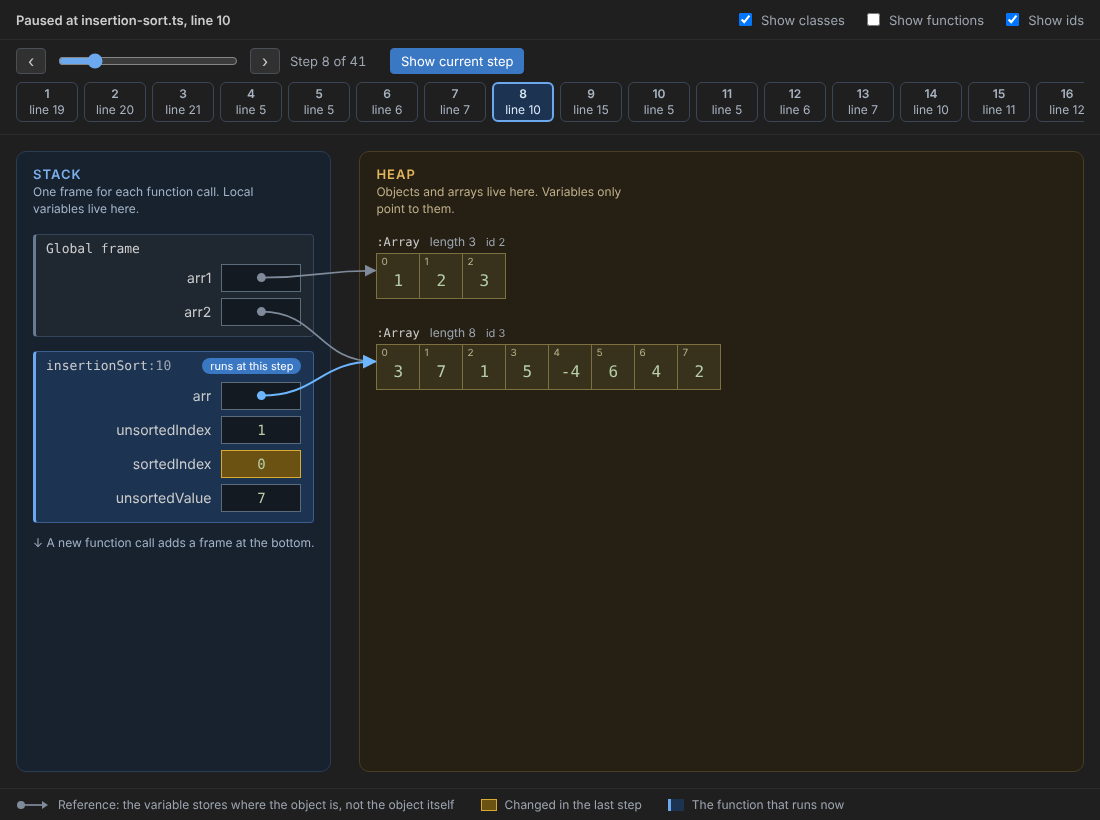
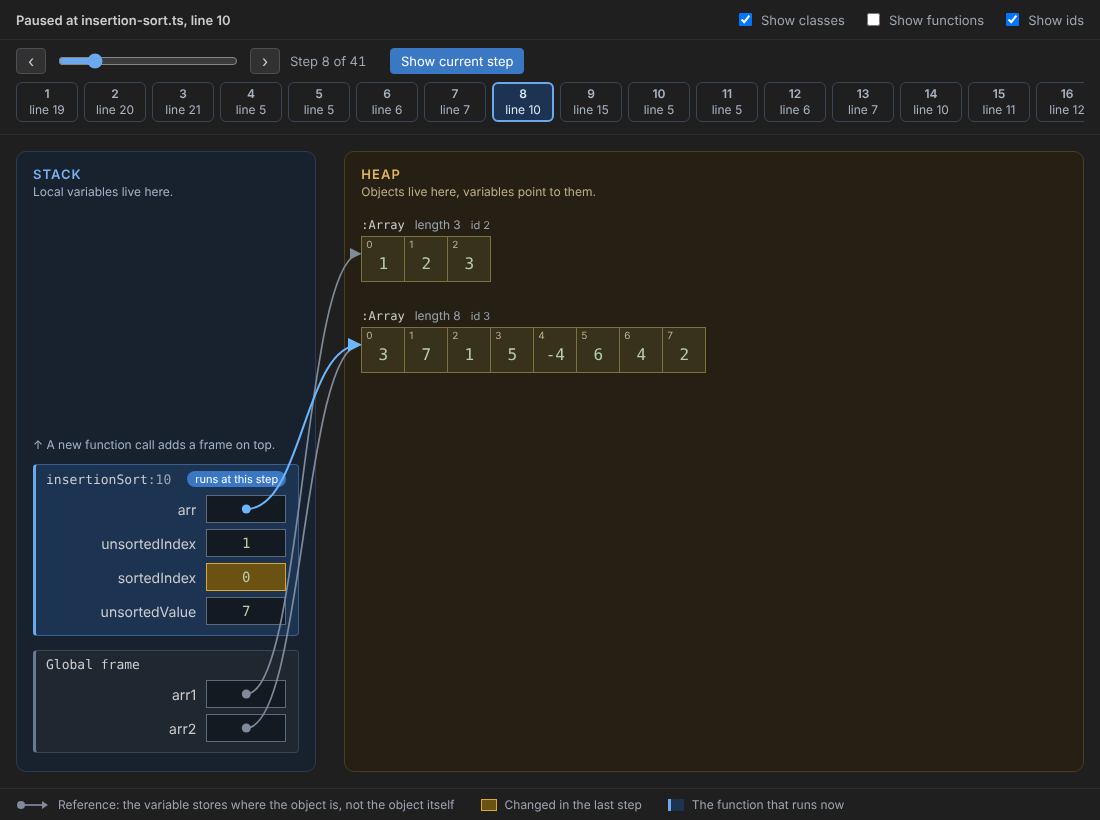
Build the stack bottom up and shorten the STACK and HEAP texts
- The Global frame is at the bottom of the STACK area, and each function call adds a frame on top.
  When the heap is taller than the window, the frames stay at the bottom of the visible part.
- STACK: "Local variables live here." HEAP: "Objects live here, variables point to them."
- The README text and images show the new stack.

Claude-Session: https://claude.ai/code/session_01XbiL4tU8fmGW26JjfMvXiG

diff --git a/webview/render.ts b/webview/render.ts
@@ -99,7 +99,7 @@ function renderFrame(frame: Frame, index: number, input: RenderInput, isTop: boo
   }
   if (isTop) {
     const badge = el('span', 'badge', input.live === false ? 'runs at this step' : 'runs now');
-    badge.title = 'This function call is the one that runs. A new call adds a frame below it.';
+    badge.title = 'This function call is the one that runs. A new call adds a frame on top of it.';
     title.append(badge);
   }
   box.append(title);
@@ -138,7 +138,8 @@ export function renderFrames(container: HTMLElement, input: RenderInput): void {
     container.append(el('div', 'frame-empty', 'The program is paused outside your own code.'));
     return;
   }
-  frames.forEach((f, i) => container.append(renderFrame(f, i, input, i === frames.length - 1)));
+  // The stack builds bottom up: the Global frame is at the bottom, and the function that runs now is on top.
+  for (let i = frames.length - 1; i >= 0; i--) container.append(renderFrame(frames[i], i, input, i === frames.length - 1));
 }
 
 function idTag(o: HeapObject, opts: ViewOptions): HTMLElement | undefined {

diff --git a/src/webviewHtml.ts b/src/webviewHtml.ts
@@ -52,13 +52,15 @@ export function webviewHtml(o: WebviewHtmlInput): string {
   <div class="diagram">
     <section class="region stack-region" aria-labelledby="stackTitle">
       <h2 id="stackTitle" class="region-title">STACK</h2>
-      <p class="region-sub">One frame for each function call. Local variables live here.</p>
-      <div id="frames" class="frames"></div>
-      <p class="hint">&#8595; A new function call adds a frame at the bottom.</p>
+      <p class="region-sub">Local variables live here.</p>
+      <div class="stack-pile">
+        <p class="hint">&#8593; A new function call adds a frame on top.</p>
+        <div id="frames" class="frames"></div>
+      </div>
     </section>
     <section class="region heap-region" aria-labelledby="heapTitle">
       <h2 id="heapTitle" class="region-title">HEAP</h2>
-      <p class="region-sub">Objects and arrays live here. Variables only point to them.</p>
+      <p class="region-sub">Objects live here, variables point to them.</p>
       <div id="heap" class="heap"></div>
     </section>
   </div>

diff --git a/webview/style.css b/webview/style.css
@@ -418,6 +418,8 @@ body.running .diagram {
 }
 
 .stack-region {
+  display: flex;
+  flex-direction: column;
   flex: 0 0 auto;
   min-width: 260px;
   background: var(--hs-stack-bg);
@@ -463,11 +465,21 @@ body.running .diagram {
 }
 
 .hint {
-  margin: 12px 0 0;
+  margin: 0 0 12px;
   font-size: 12px;
 }
 
 /* Frames */
+
+/*
+ * The stack builds bottom up: the frames sit at the bottom of the STACK area, so that a new frame appears on top.
+ * When the heap is taller than the window, the frames stay at the bottom of the visible part (sticky).
+ */
+.stack-pile {
+  position: sticky;
+  bottom: 8px;
+  margin-top: auto;
+}
 
 .frames {
   display: flex;

diff --git a/README.md b/README.md
@@ -9,9 +9,10 @@ but inside VS Code, with the normal debugger, and with [Deno](https://deno.com) 
 
 ## What the Heap Stack view shows
 
-- **STACK** (blue area): one frame for each function call. The function that runs now is at the
-  bottom and has the label "runs now". Each variable is a box. A number, a string or a boolean is
-  written in the box.
+- **STACK** (blue area): one frame for each function call. The stack builds bottom up: the Global
+  frame is at the bottom, and each function call adds a frame on top. The function that runs now is
+  the top frame and has the label "runs now". Each variable is a box. A number, a string or a boolean
+  is written in the box.
 - **HEAP** (yellow area): objects and arrays. A variable that holds an object stores only *where*
   the object is. The view draws this as an arrow from the variable to the object. Two arrows to the
   same object mean that two variables point to the same object.
